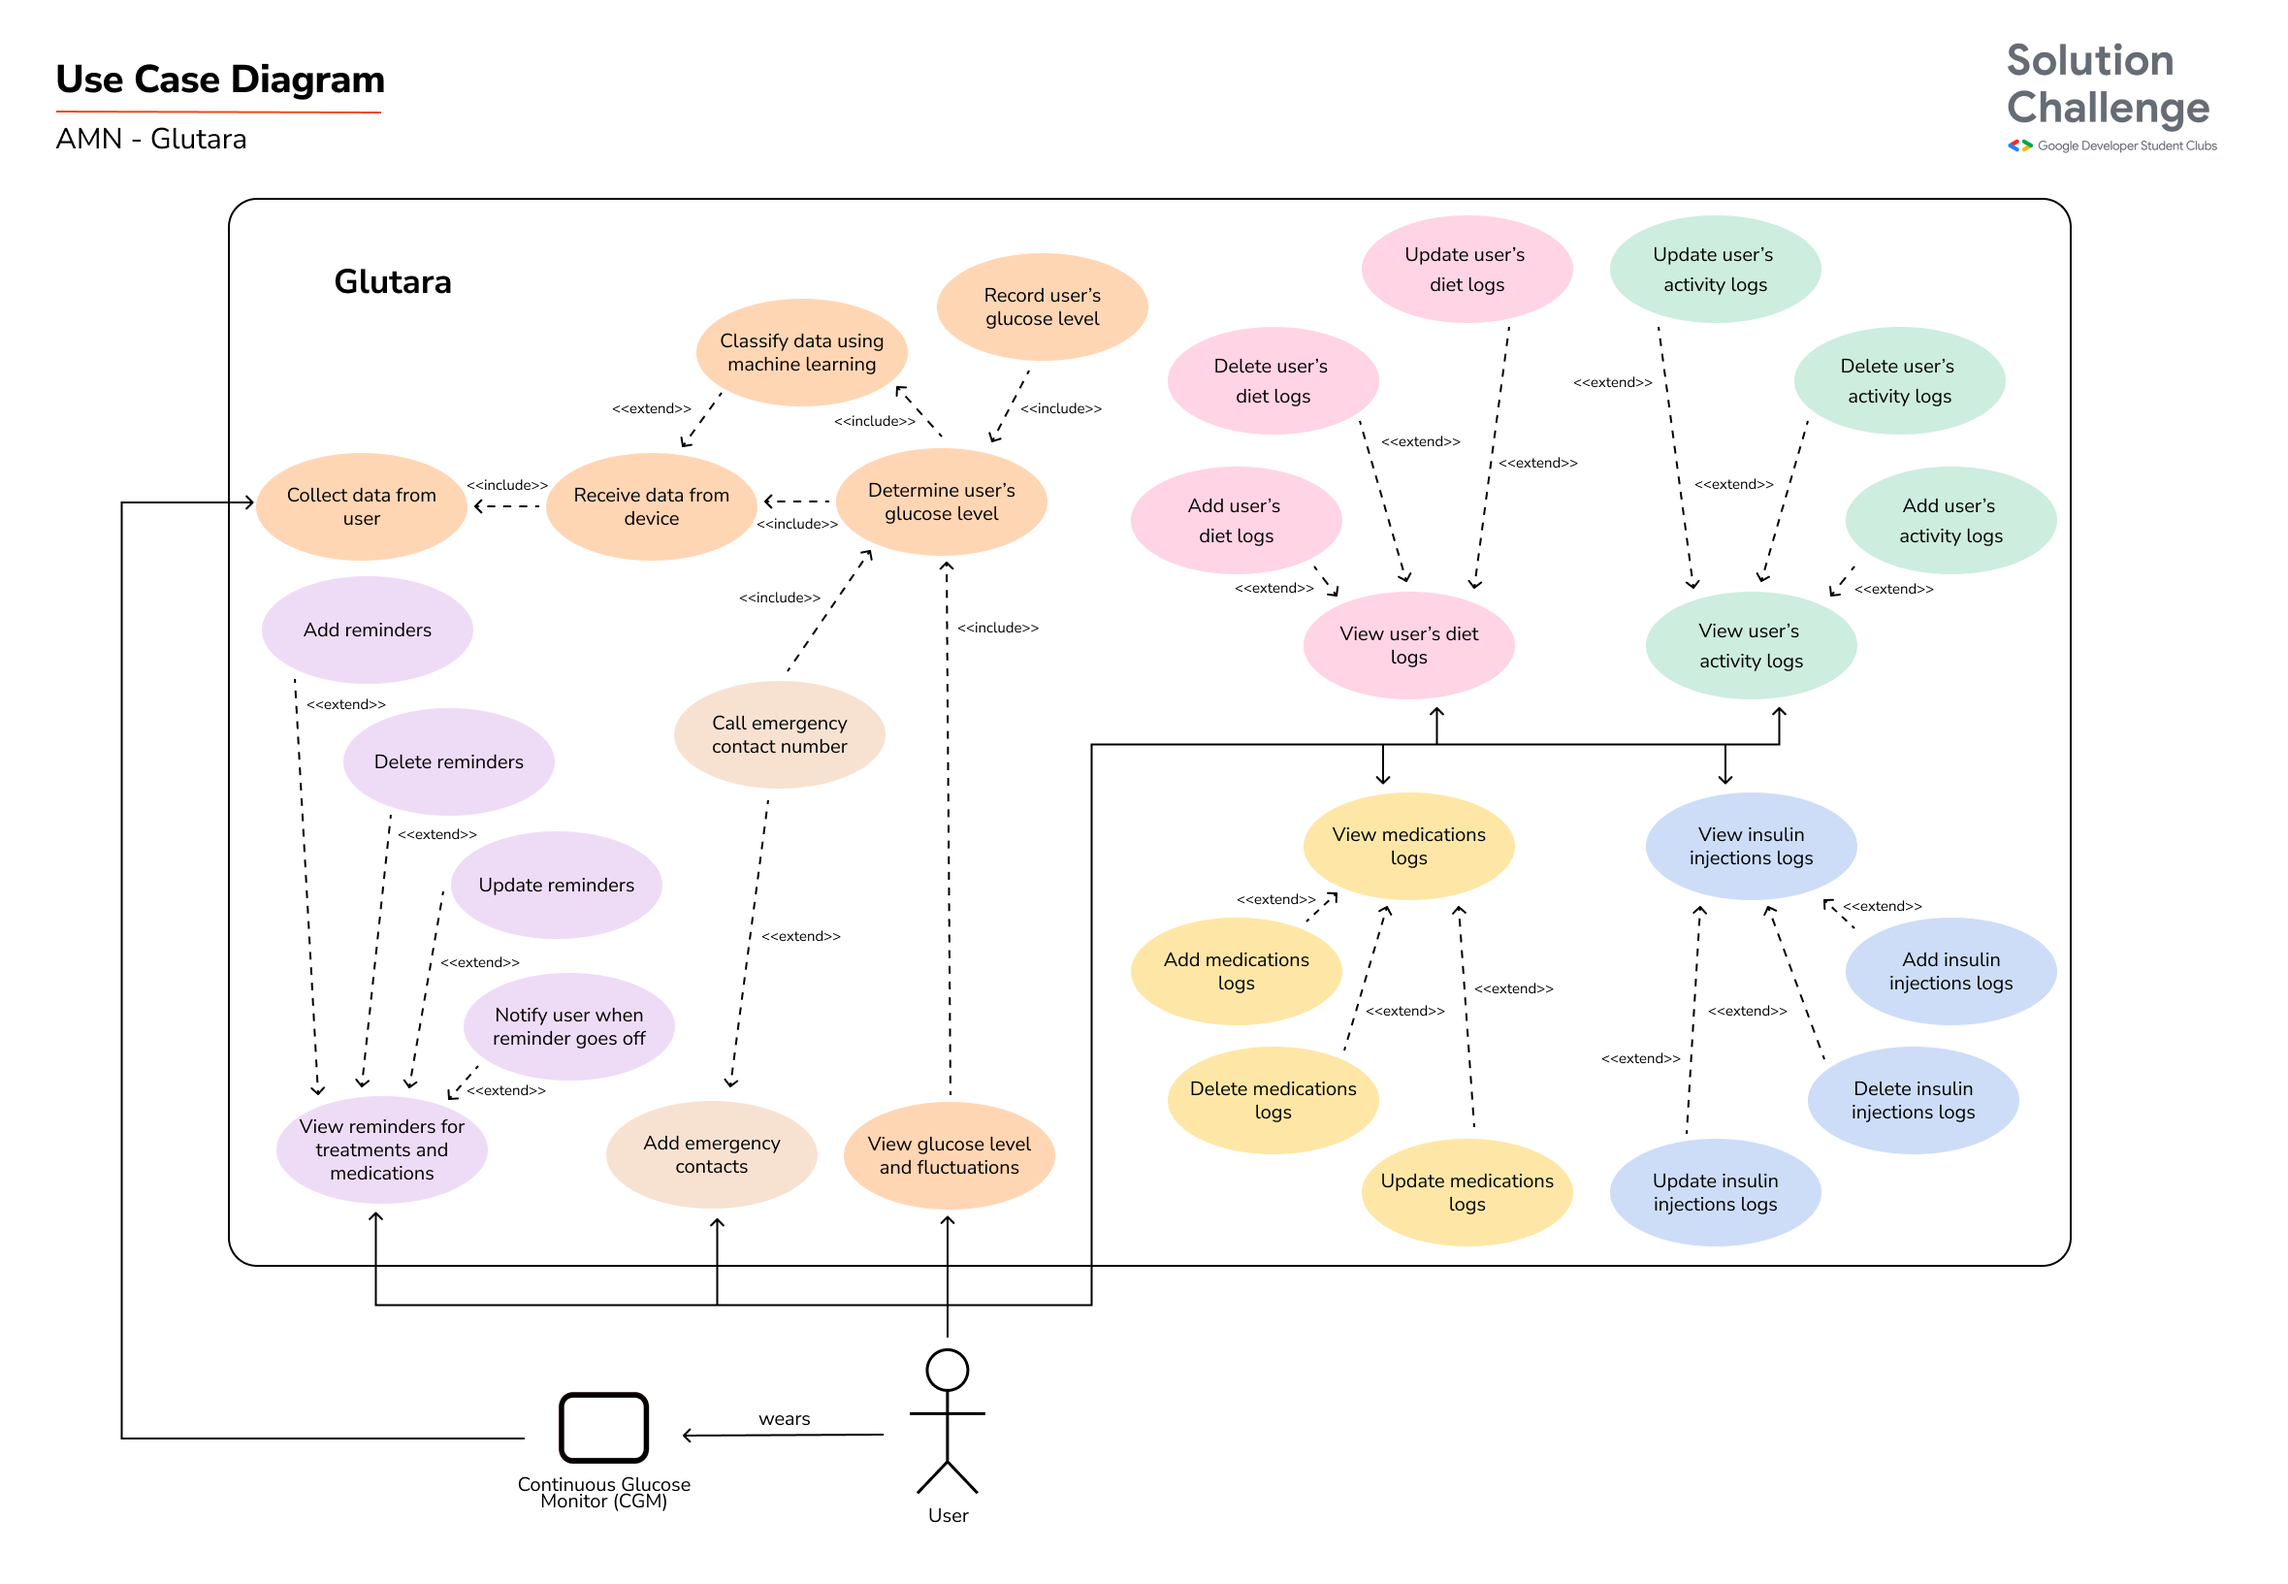
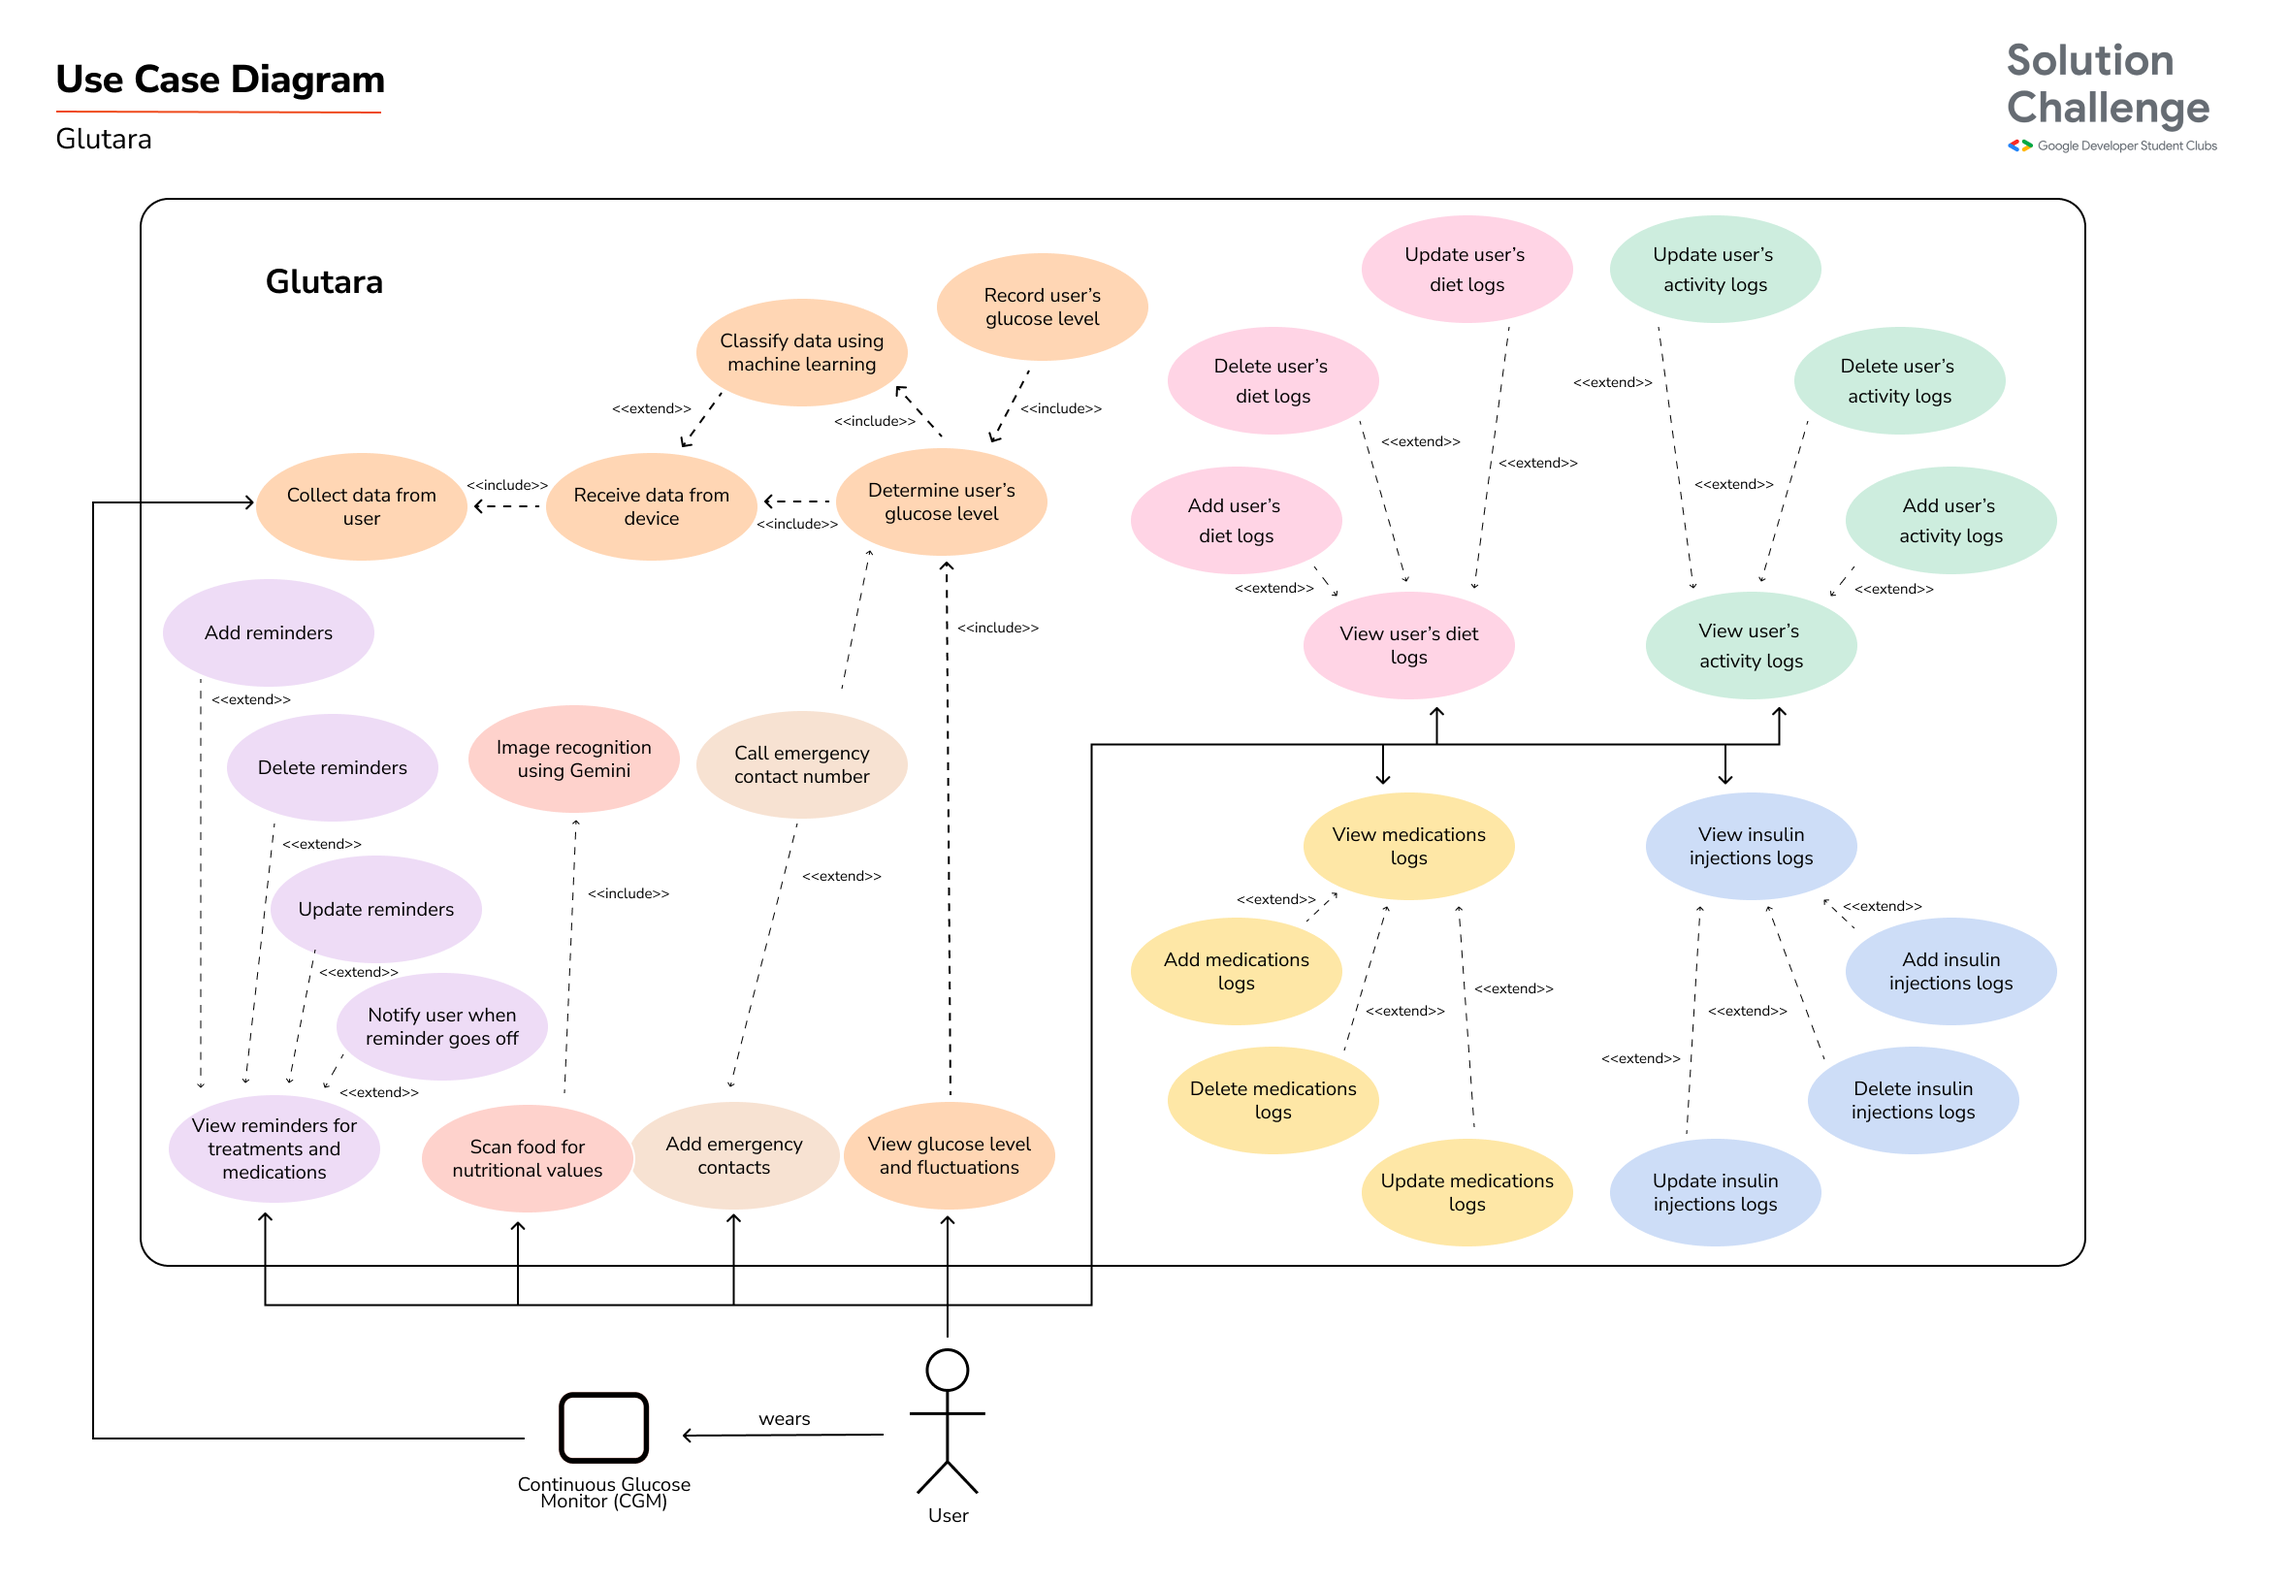
feat : update README.md

Changed region(s): [[0.0619, 0.3435, 0.4023, 0.7808], [0.1238, 0.1562, 0.1857, 0.1874], [0.0309, 0.0625, 0.0928, 0.0937]]

diff --git a/profile/README.md b/profile/README.md
@@ -11,22 +11,22 @@
 <br>
 <h1 align="center">Glutara</h1>
 
-![Glutara](https://firebasestorage.googleapis.com/v0/b/upheld-acumen-420202.appspot.com/o/readme-assets%2F.github%2FPromotional%20Banner%20Glutara.png?alt=media&token=d67c2709-c00f-464a-94c0-7ffa91475049)
+![Glutara](https://firebasestorage.googleapis.com/v0/b/upheld-acumen-420202.appspot.com/o/readme-assets%2F.github%2FPromotional%20Banner%20Glutara.png?alt=media&token=a4b74e12-ecb5-44dc-a566-241b67bb7e6c)
 
 **Glutara: Empowering Diabetes Management**
 
-Glutara unlocks the power of technology to transform diabetes care. We go beyond simple monitoring, offering personalized insights, proactive health recommendations, and seamless connectivity with healthcare providers. Whether you're navigating remote areas or seeking community support, Glutara empowers you to take control of your health, one empowered step at a time.
+Glutara is a comprehensive IoT system designed to revolutionize diabetes management.  It combines a non-invasive wearable Continuous Glucose Monitor (CGM) for real-time blood sugar tracking with intuitive data visualization for informed decision-making. Additionally, Glutara leverages AI technology to scan food and provide insightful nutritional information. This empowers users to make informed dietary choices that directly impact their glucose levels. Furthermore, Glutara fosters a supportive community network by enabling patients to connect with their loved ones through a secure QR code system, promoting mutual assistance and ensuring a safety net. By prioritizing affordability, Glutara strives to make this powerful solution accessible to individuals with diabetes from all economic backgrounds.
 
 ## Problem Statement
 <blockquote align='center'>
-<h3>“Indonesia ranked 5th in the number of people with diabetes in the world with a number reaching 19,47 million people.”
+<h3>“537 million adults (20-79 years) are living with diabetes - 1 in 10. This number is predicted to rise to 643 million by 2030 and 783 million by 2045”
 
 \- International Diabetes Federation (IDF), 2022
 
 </h3>
 </blockquote>
 
-Millions of individuals worldwide grapple with the relentless challenges of managing diabetes, a chronic condition that demands **consistent monitoring and care**. Despite the advancements in technology, the process remains burdensome, with **traditional finger-pricking glucose monitoring causing discomfort** and hindering regular monitoring. This issue is exacerbated for those leading busy lives, **leaving little time for necessary health measures**. The fear of potential health emergencies, particularly for individuals living alone, further compounds the need for a **more accessible and painless solution.**
+Millions of individuals worldwide grapple with the relentless challenges of managing diabetes, a chronic condition that demands **consistent monitoring and care**. Despite the advancements in technology, the process remains burdensome, with **traditional finger-pricking glucose monitoring causing discomfort** and hindering regular monitoring. This issue is exacerbated for those leading busy lives, **leaving little time for necessary health measures**. The fear of potential dangers of how **certain foods might impact their blood sugar levels** and other health emergencies, particularly for individuals living alone, further compounds the need for a **more accessible and painless solution.**
 
 ## 💡 &nbsp;Solution Key Points
 
@@ -44,12 +44,16 @@ Glutara puts **real-time data insights at your fingertips**. Visualize your gluc
 
 You're never alone with Glutara. Our **vibrant community connects individuals**, providing a safety net of mutual support and understanding, **especially for those navigating diabetes solo**. Share experiences, offer encouragement, and find solace in knowing you're not walking this path alone. Together, we build a **sense of belonging** and empower each other to thrive.
 
-### 4. Accessible Empowerment
+### 4. Incredible AI Power
 
-Accessing better health shouldn't break the bank. Glutara champions affordability and inclusivity, making diabetes management a possibility for everyone, regardless of background. Experience the transformative power of technology, free from financial barriers, and unlock a world of endless possibilities towards a healthier future.
+Confused by food labels?  Glutara's **super-smart AI food scanner** is here to banish food mysteries. Simply scan any food item, and **unlock a treasure trove of nutritional insights**.  Identify the food ingredients, understand impact on your glucose levels, and make informed dietary choices with confidence. Glutara's AI **becomes your personal dietary detective**, empowering you to navigate the food world with clarity and control.
+
+### 5. Accessible Empowerment
+
+Accessing better health shouldn't break the bank. Glutara champions **affordability and inclusivity**, making diabetes management a **possibility for everyone**, regardless of background. Experience the transformative power of technology, **free from financial barriers**, and unlock a world of endless possibilities towards a healthier future.
 
 <a href="https://raw.githubusercontent.com/Glutara/.github/main/assets/UCD.png">
-<img src="https://firebasestorage.googleapis.com/v0/b/upheld-acumen-420202.appspot.com/o/readme-assets%2F.github%2FUCD.png?alt=media&token=52bc9137-841f-4792-bdd1-968c26123719" target="_blank" />
+<img src="https://firebasestorage.googleapis.com/v0/b/upheld-acumen-420202.appspot.com/o/readme-assets%2F.github%2FUCD.png?alt=media&token=013085bb-62ea-4f7d-b739-5c4f016e33ce" target="_blank" />
 </a>
 <br />
 
@@ -225,7 +229,7 @@ Glutara machine learning: [Link](https://github.com/Glutara/glutara-machine-lear
 
 ### 4. Implementation Design
 
-We are making sure that our solution is not only feasible to make but also comfortable for users to deal with it, especially the hardware device. So we also go through dense design plans and implementation.
+We are making sure that our solution is not only feasible to make but also comfortable for users to deal with it, especially the hardware device. So we go through dense design plans and implementation to make sure our dreams come true.
 
 **Click to get more information:**<br>
 Glutara 3D design: [Link](https://github.com/Glutara/glutara-3d-design)
